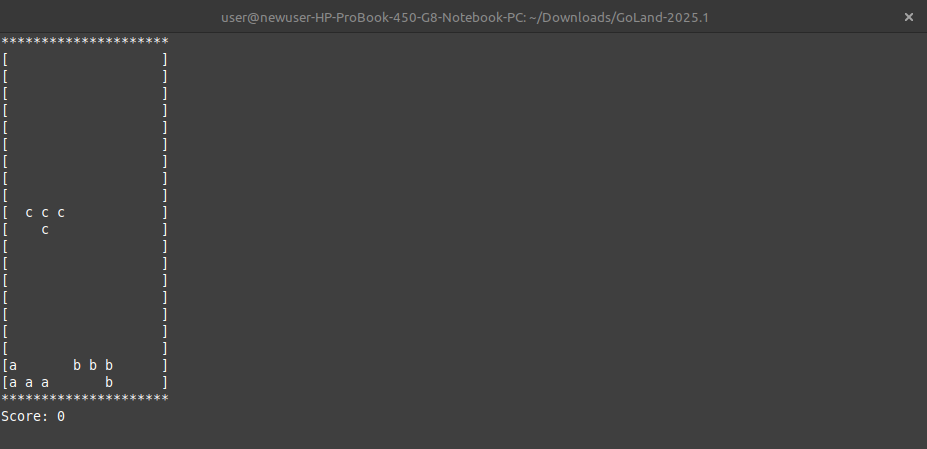
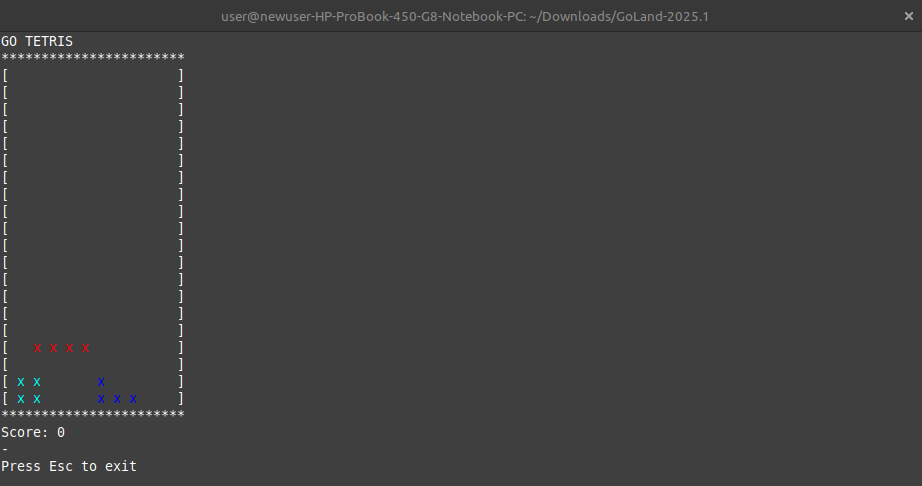
color output

diff --git a/game/tetris.go b/game/tetris.go
@@ -2,18 +2,11 @@ package game
 
 import (
 	"fmt"
+	"github.com/charmbracelet/lipgloss"
 	"math/rand"
 	"sync"
 	"time"
 )
-
-var Characters = []string{
-	"a", "b", "c", "d", "e", "f",
-	"g", "h", "i", "j", "k", "l",
-	"m", "n", "o", "p", "q", "r",
-	"s", "t", "u", "v", "w", "x",
-	"y", "z",
-}
 
 var Shapes = [][][][]int{
 	{
@@ -216,6 +209,7 @@ type Tetris struct {
 	scores      []int
 	height      int
 	width       int
+	colors      map[int]string
 	activePiece *Piece
 	archive     []*Piece
 	grid        *Grid
@@ -235,6 +229,7 @@ func StartNewGame(tetris *Tetris) {
 	tetris.activeScore = 0
 	tetris.grid = NewGrid(layout)
 	tetris.archive = make([]*Piece, 0)
+	tetris.colors = make(map[int]string)
 	tetris.newActivePiece()
 }
 
@@ -255,6 +250,7 @@ func NewTetris(
 		archive: make([]*Piece, 0),
 		shapes:  Shapes,
 		scores:  make([]int, 0),
+		colors:  make(map[int]string),
 	}
 	StartNewGame(tetris)
 	go func() {
@@ -281,6 +277,21 @@ func (t *Tetris) gameOver() {
 func (t *Tetris) newActivePiece() {
 	id := len(t.archive) + 1
 	index := rand.Intn(len(t.shapes) - 1)
+	if index == 0 {
+		t.colors[id] = "#ffff00"
+	} else if index == 1 {
+		t.colors[id] = "#00ffff"
+	} else if index == 2 {
+		t.colors[id] = "#BF40BF"
+	} else if index == 3 {
+		t.colors[id] = "#00ff00"
+	} else if index == 4 {
+		t.colors[id] = "#ff0000"
+	} else if index == 5 {
+		t.colors[id] = "#0096FF"
+	} else if index == 6 {
+		t.colors[id] = "#ff7ff0"
+	}
 	rotation := rand.Intn(3)
 	shape := t.shapes[index][rotation]
 	x := rand.Intn(len(t.grid.layout[0]) - len(shape[0]) - 1)
@@ -420,19 +431,15 @@ func (t *Tetris) printGrid() {
 	grid := NewGrid(layout)
 	t.addPieceToGrid(grid, t.activePiece)
 	for _, row := range layout {
-		var charRow []string
-		for _, cell := range row {
-			var char string
-			if cell == 0 {
-				char = " "
-			} else {
-				char = Characters[(cell-1)%len(Characters)]
-			}
-			charRow = append(charRow, char)
-		}
 		fmt.Printf("[ ")
-		for _, char := range charRow {
-			fmt.Printf(char)
+		for _, cell := range row {
+			if cell > 0 {
+				style := lipgloss.NewStyle().
+					Foreground(lipgloss.Color(t.colors[cell]))
+				fmt.Printf(style.Render("x"))
+			} else {
+				fmt.Printf(" ")
+			}
 			fmt.Printf(" ")
 		}
 		fmt.Printf("]\n")
